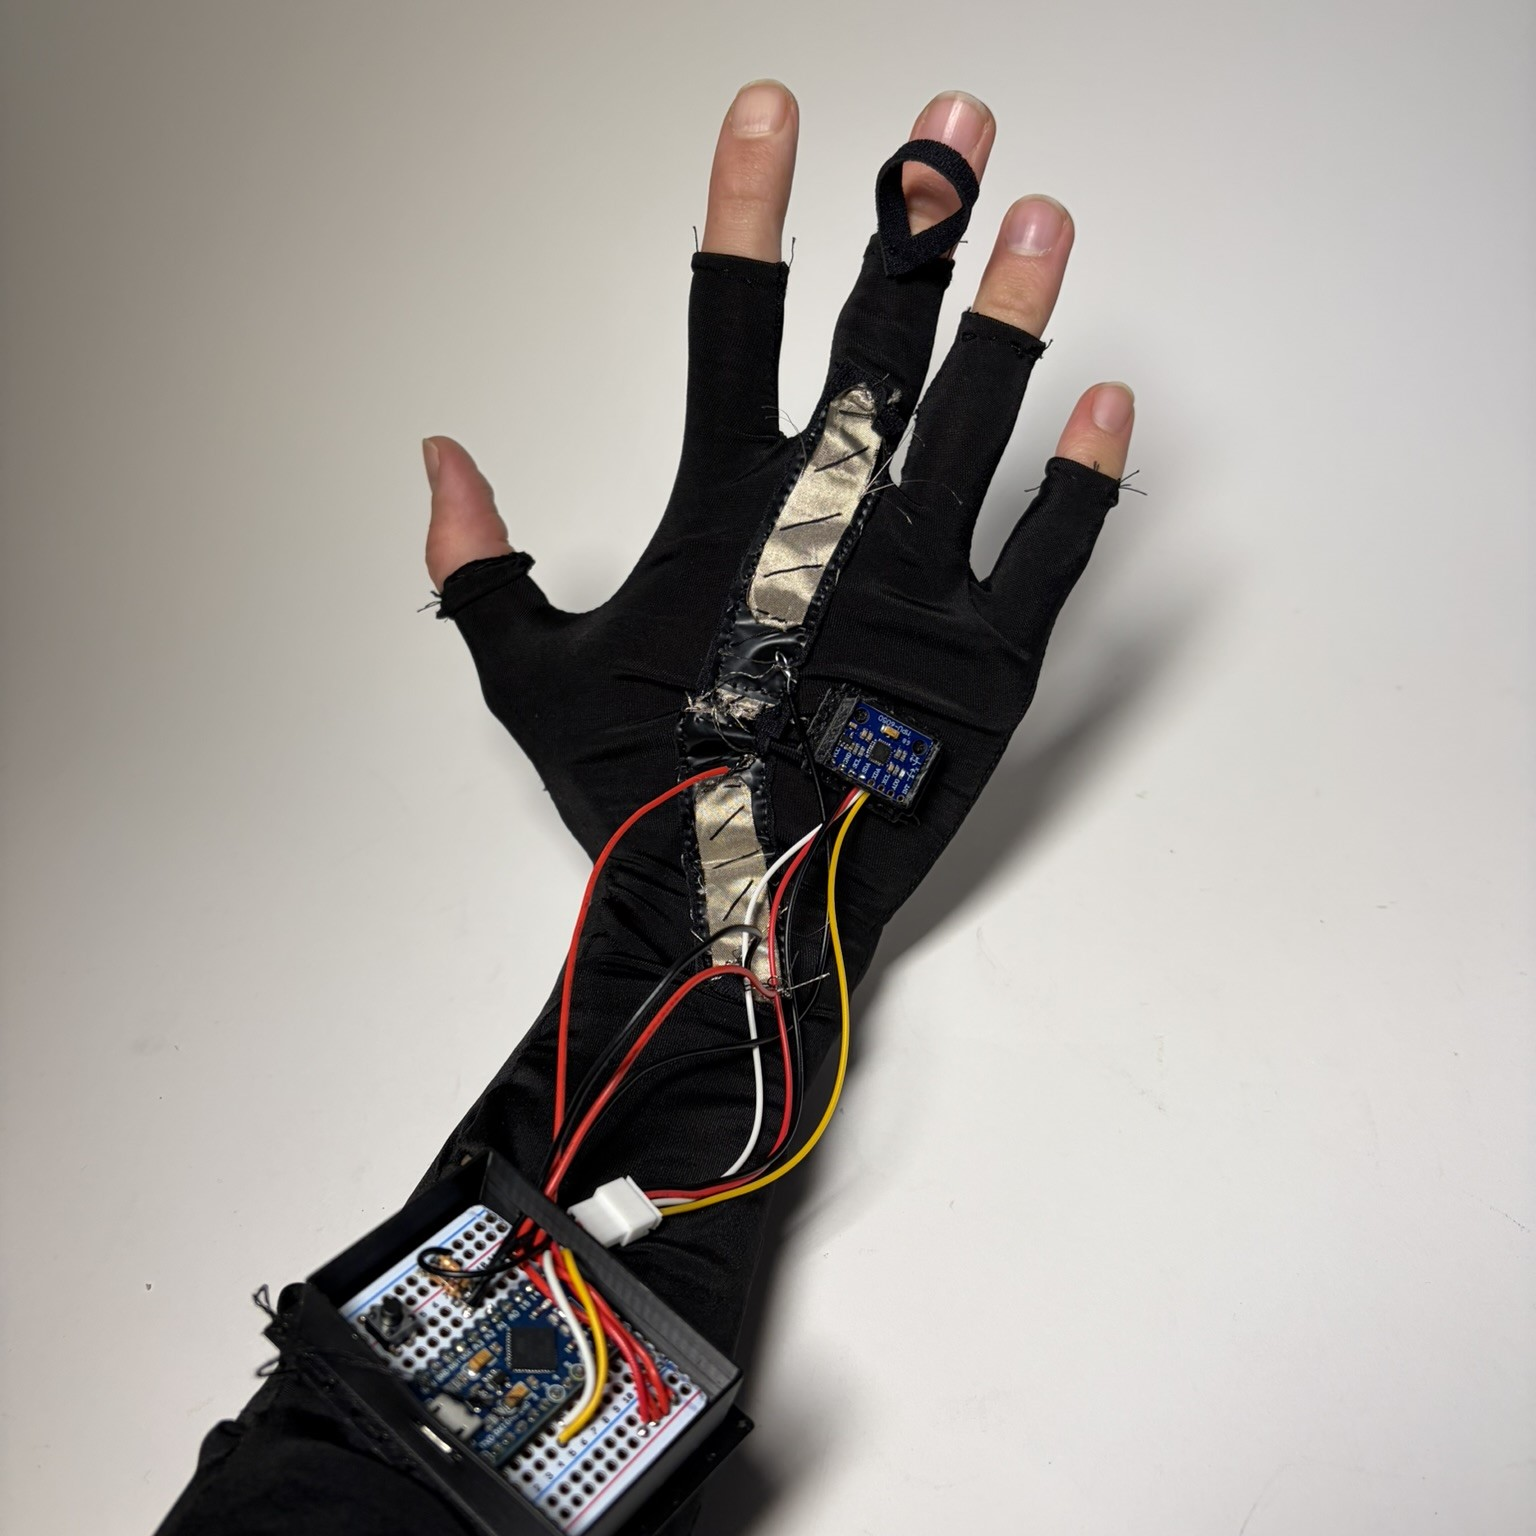
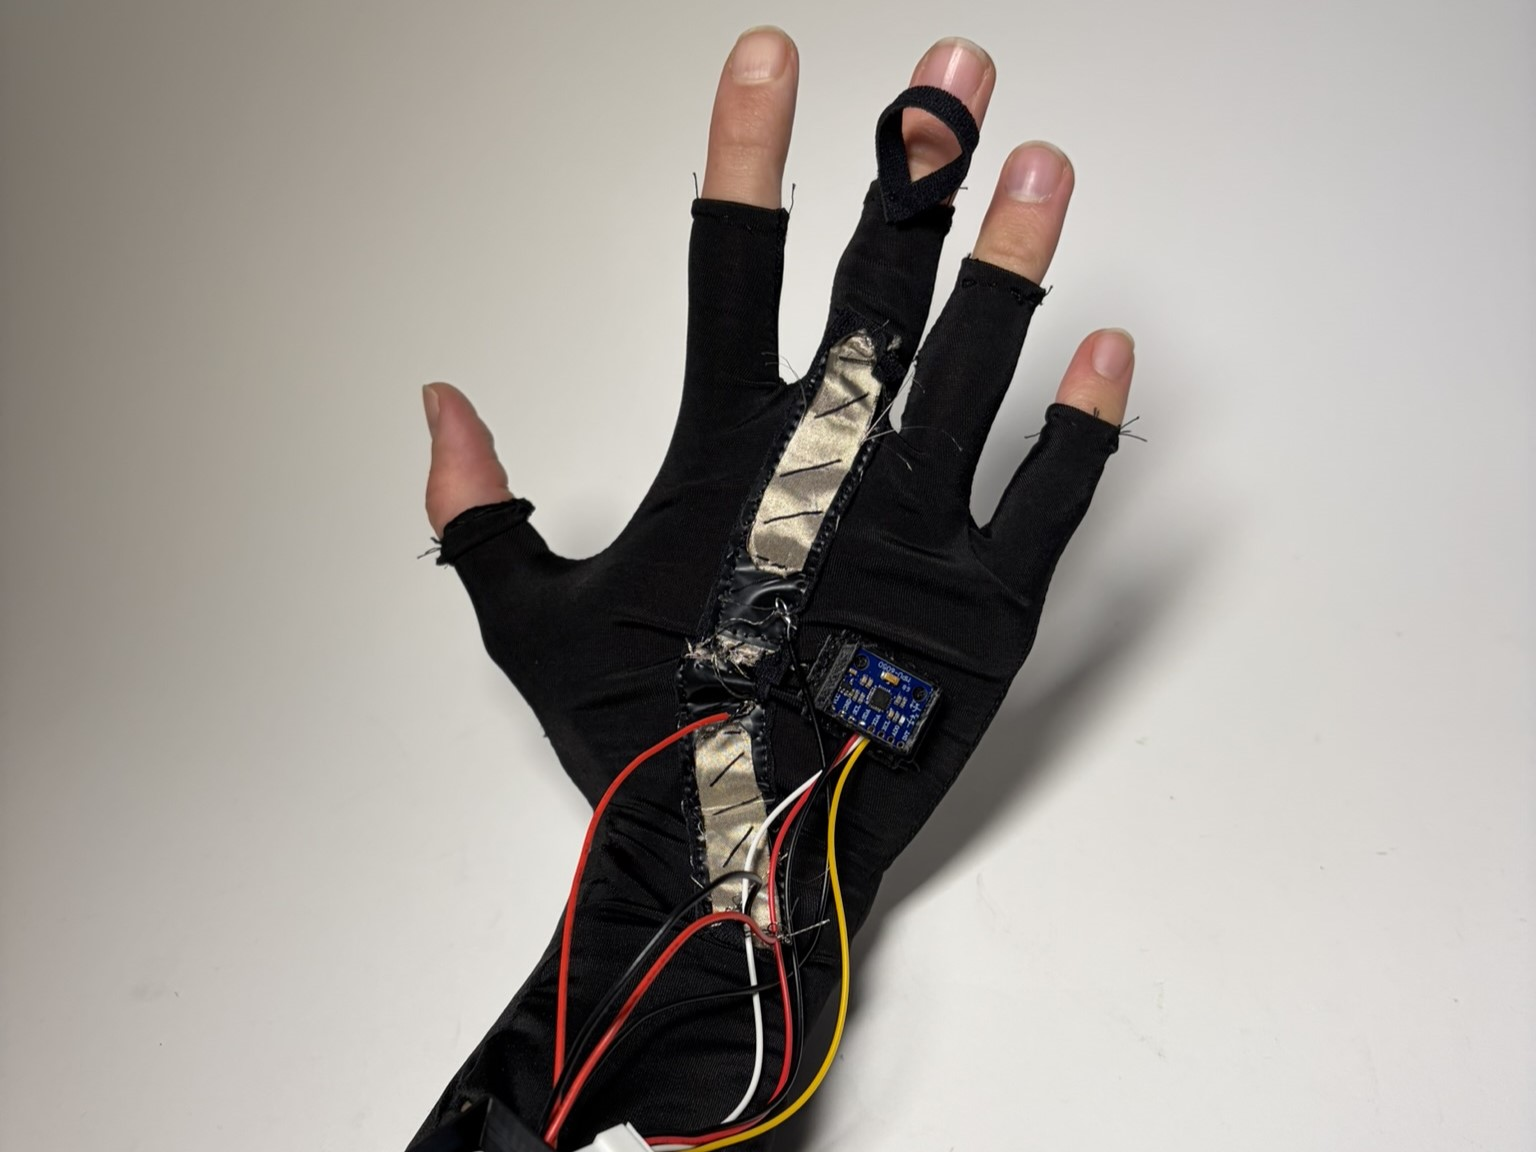
project photo update

diff --git a/assets/css/main.scss b/assets/css/main.scss
@@ -225,6 +225,7 @@ img {
   background-position: center;
   background-color: var(--grey-color-light);
   border-radius: 4px;
+  overflow: hidden;
 }
 
 .featured-overlay {
@@ -238,10 +239,16 @@ img {
 }
 
 .featured-caption {
-  display: block;
-  margin-top: 0.5rem;
-  font-size: 0.95rem;
+  position: absolute;
+  left: 10px;
+  right: 10px;
+  bottom: 10px;
+  color: #fff;
+  font-size: 0.9rem;
+  font-weight: 500;
+  text-shadow: 0 1px 3px rgba(0, 0, 0, 0.7);
 }
+
 .awards {
   margin-top: 2.5rem;
 }
